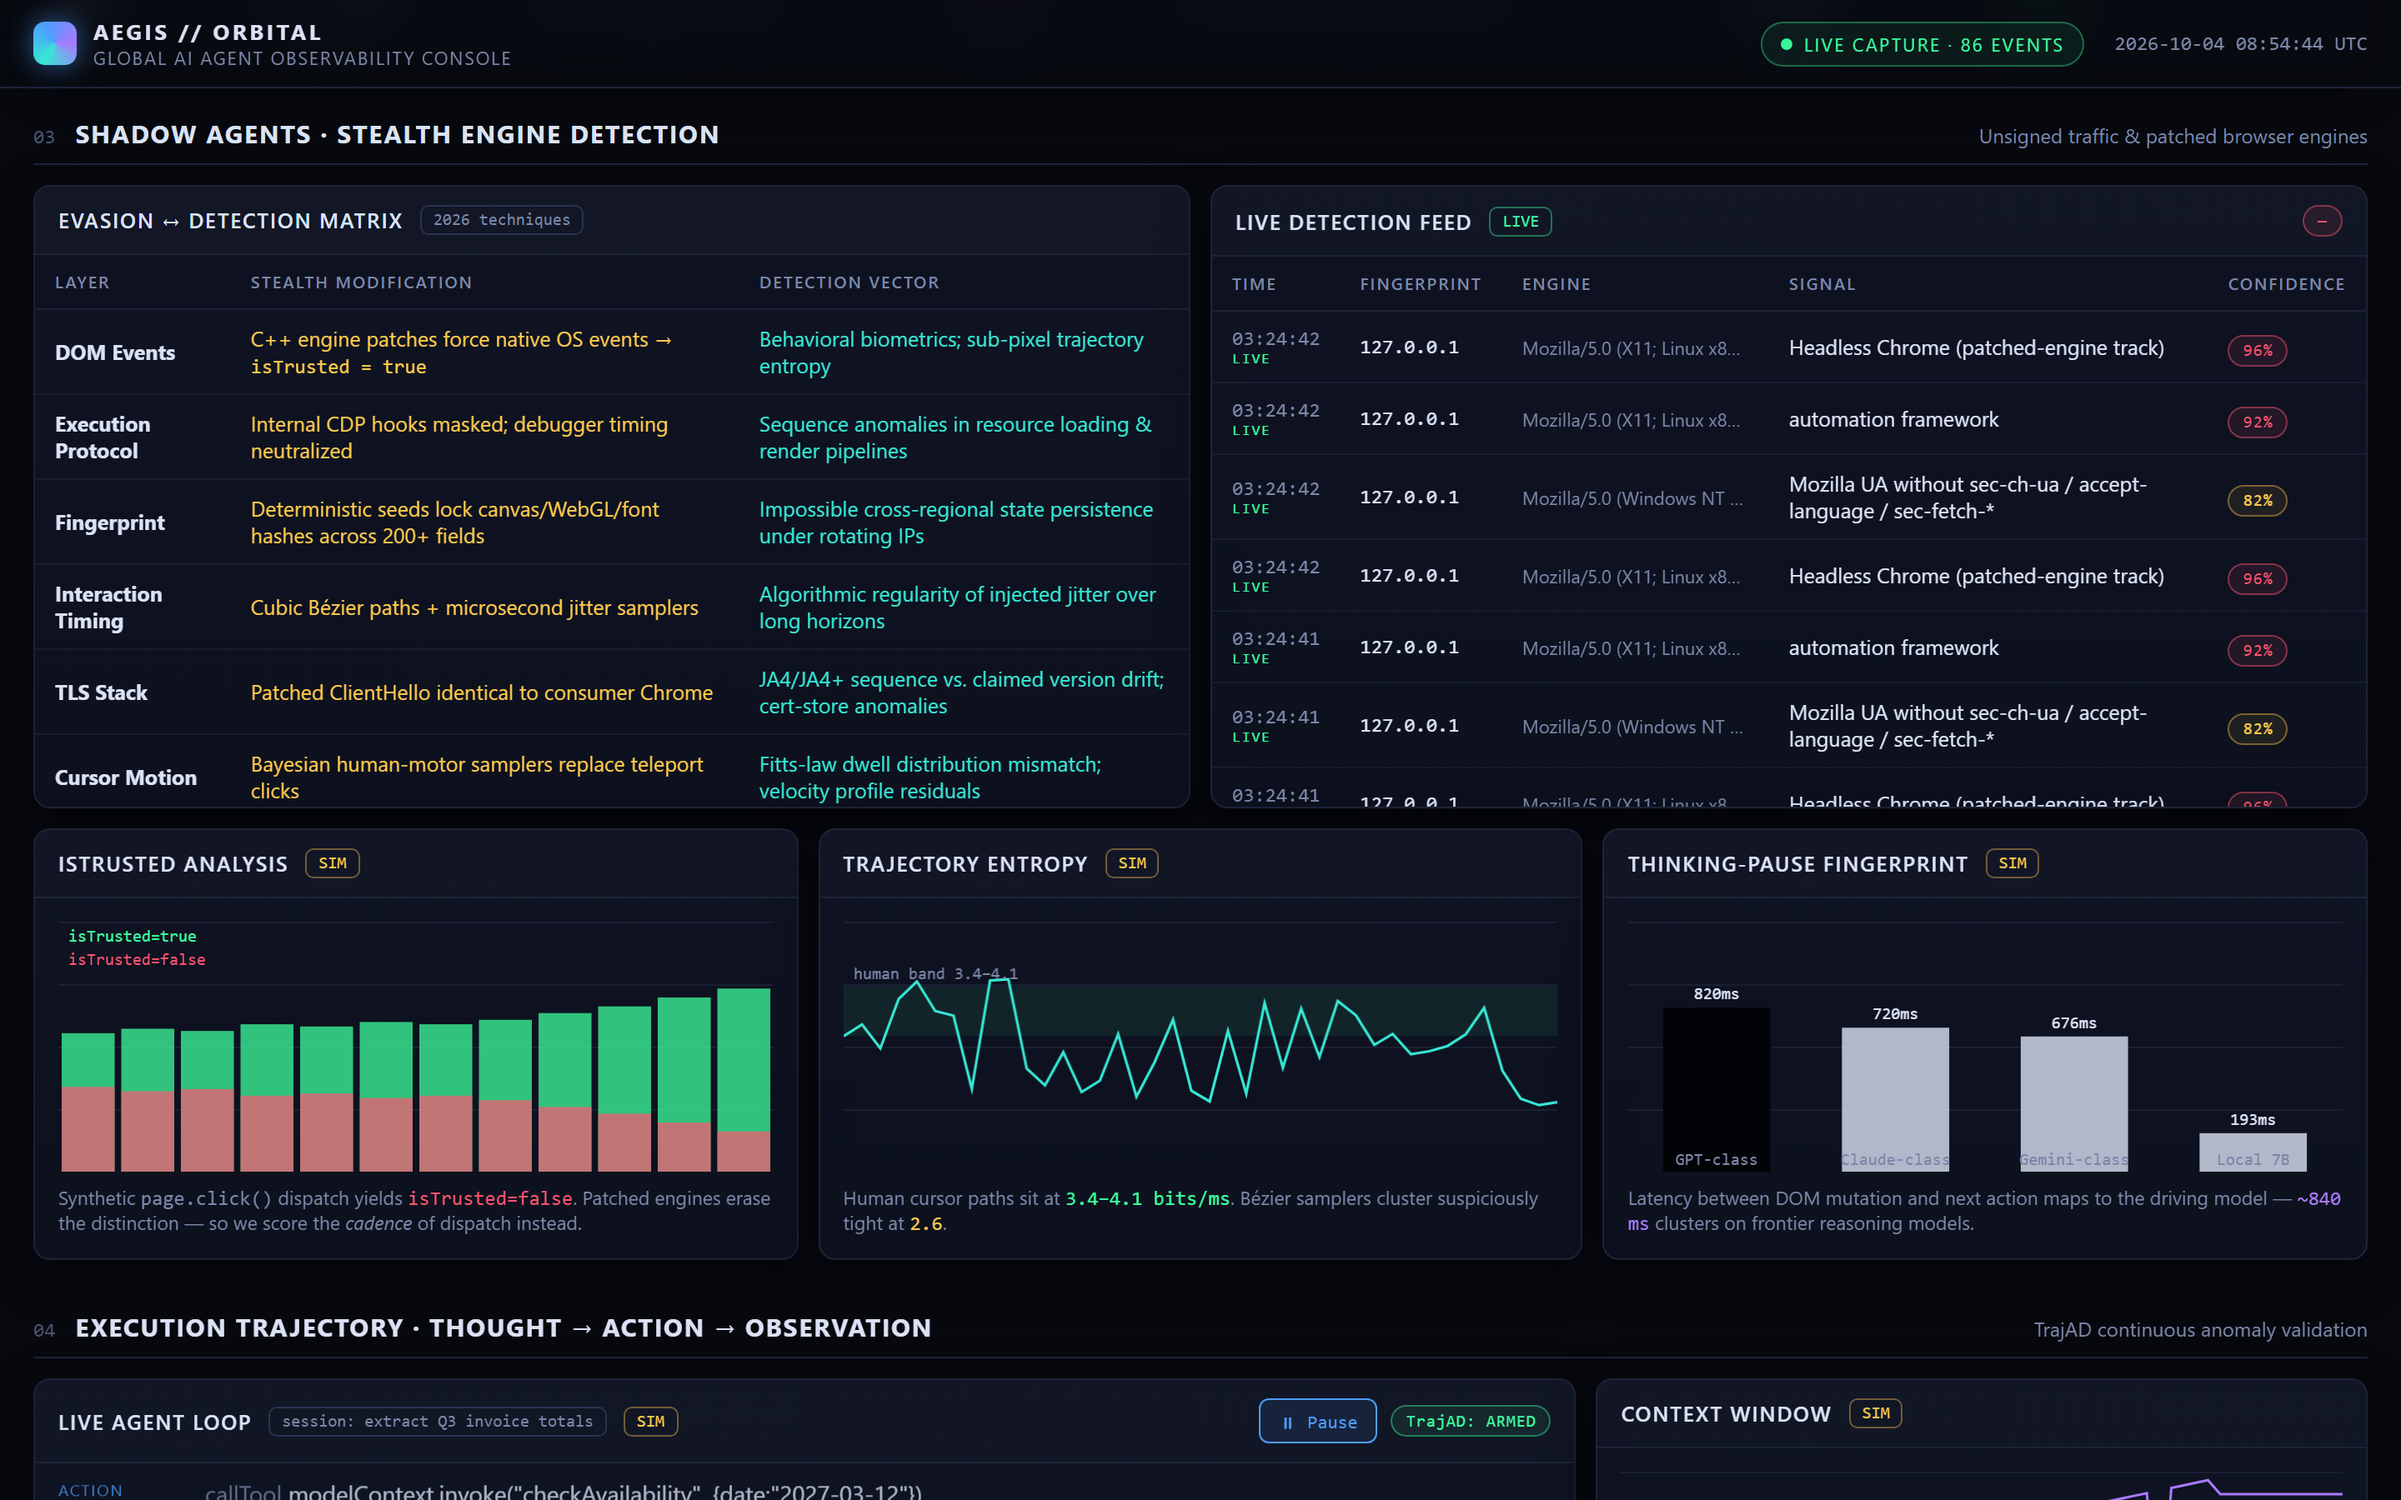
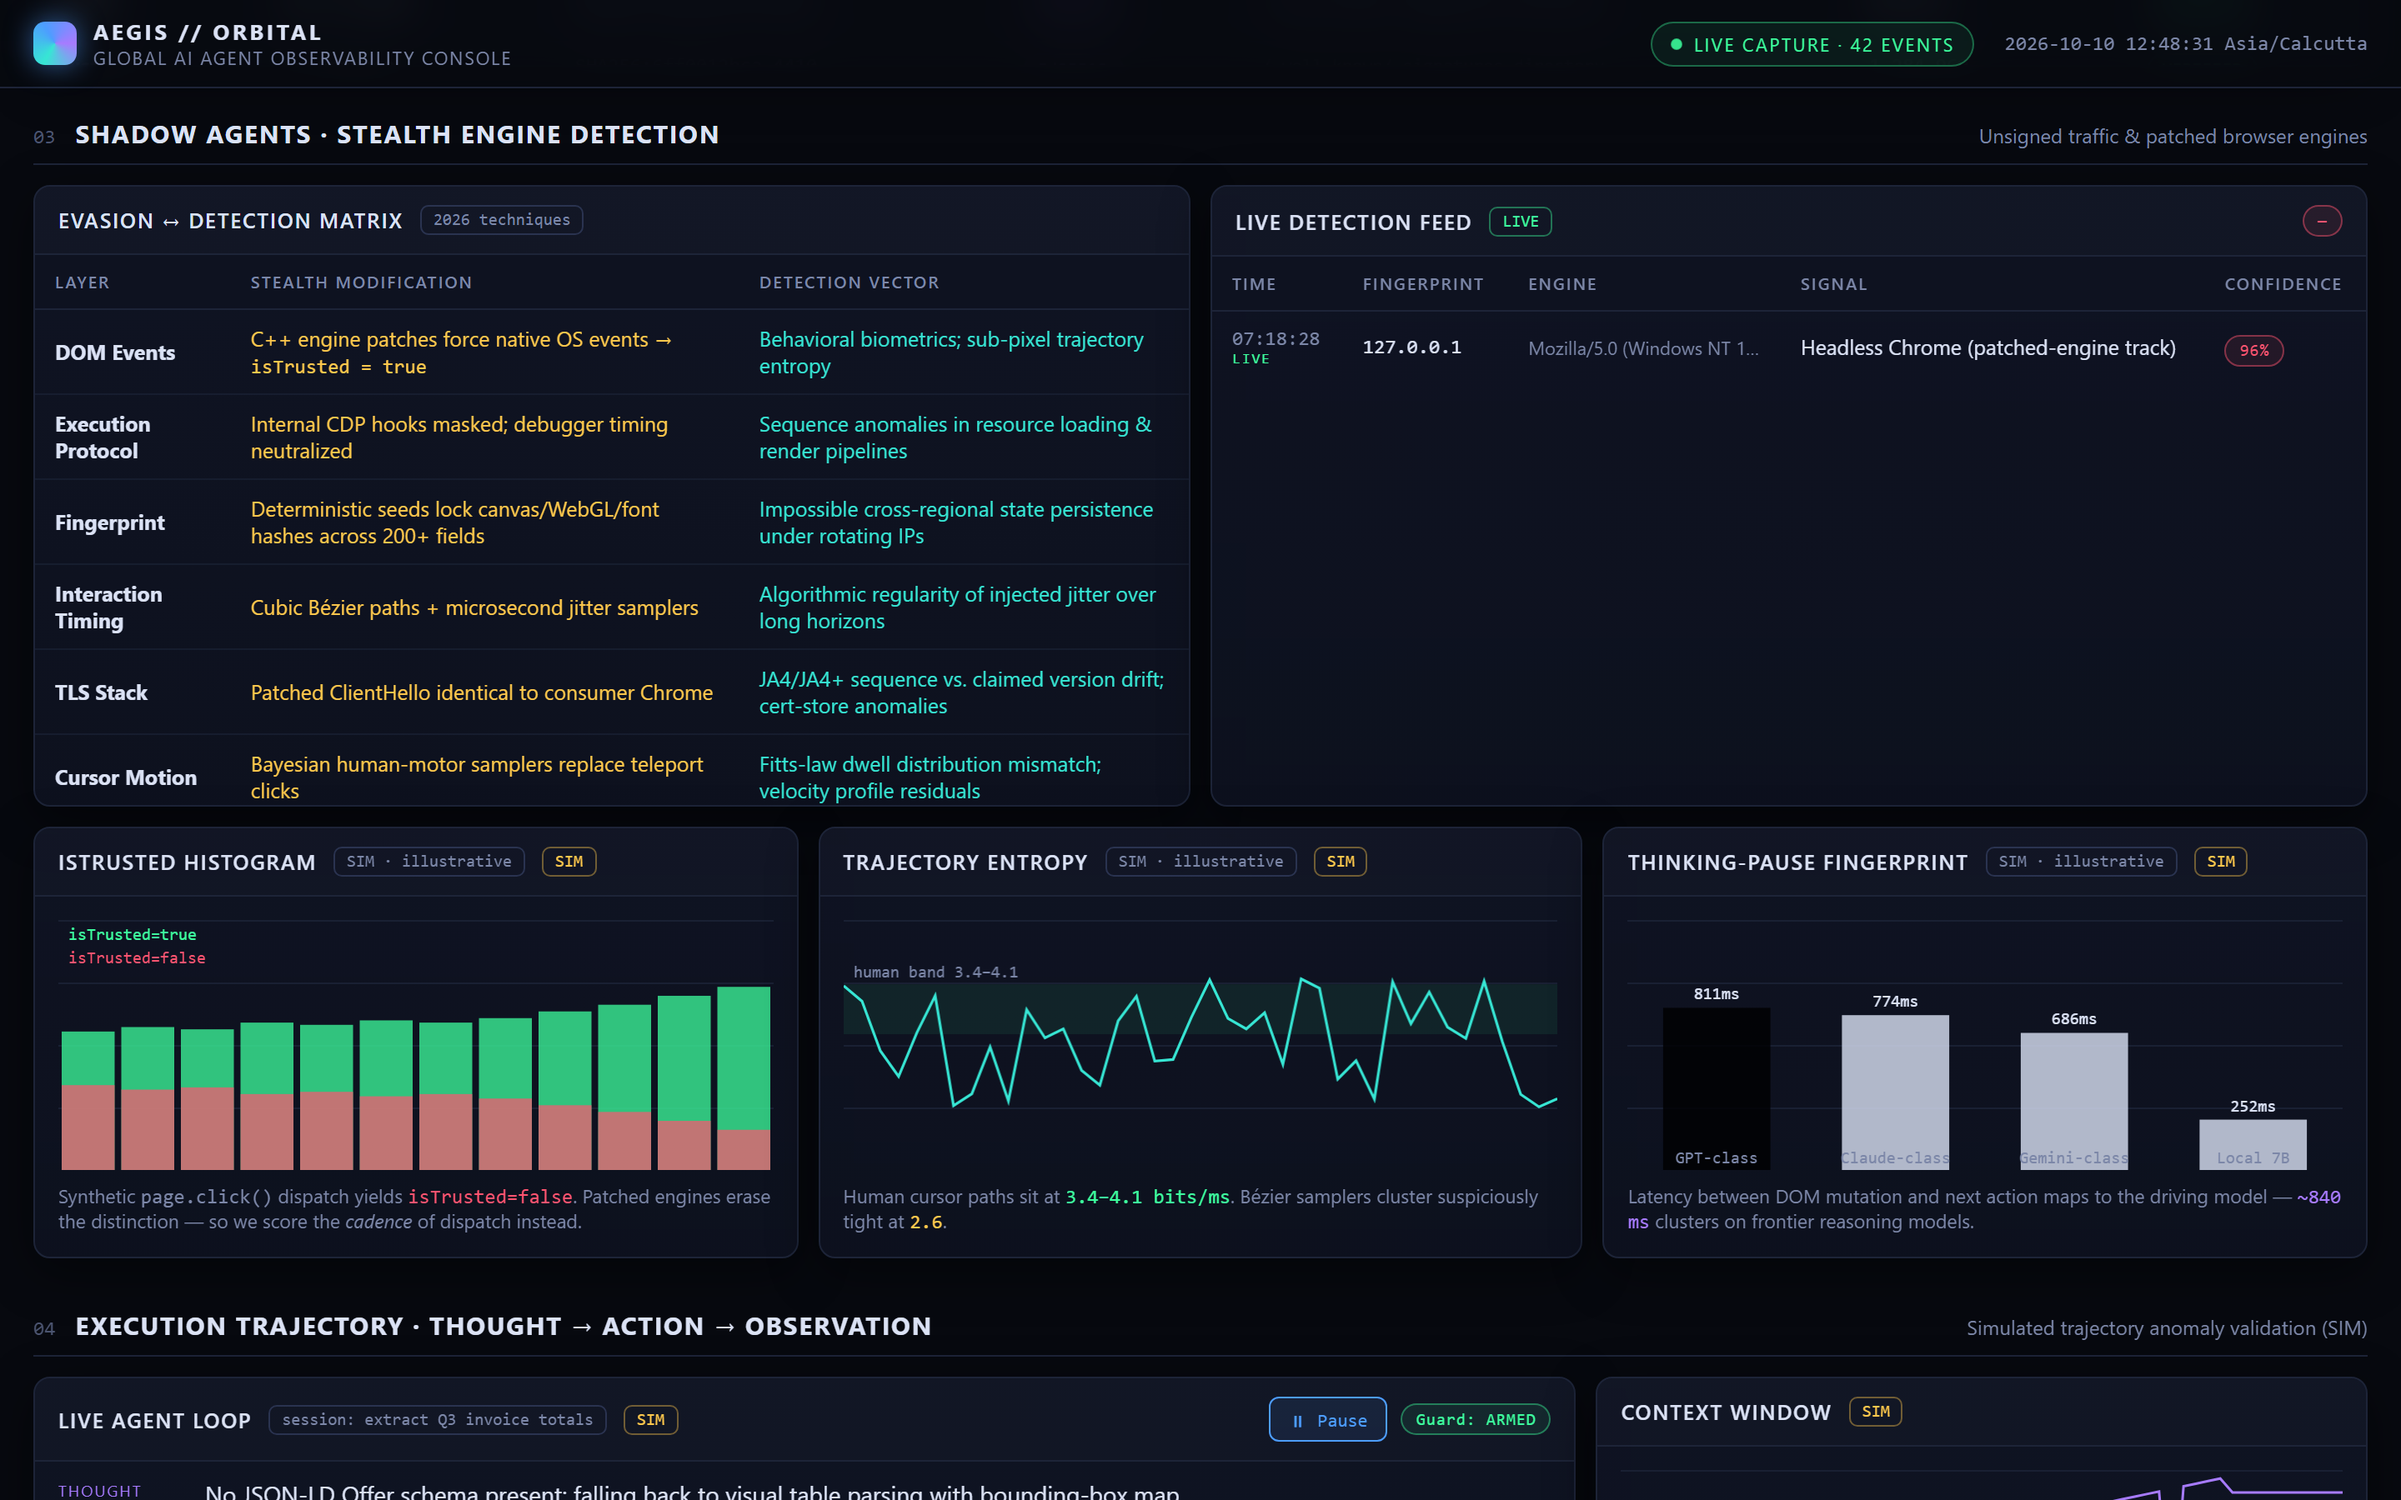
docs: add What's real vs. simulated section, drop static test-count badge, refresh screenshots
The README now opens with an explicit real-vs-simulated paragraph so no
reader mistakes the console's editorial panels for measurements. The
unverifiable static "75 tests passing" badge is gone — the CI badge is
the single source of truth for suite status. Screenshots were regenerated
from the current console (live capture with demo traffic) so no image
shows the removed claims or renamed panels.

🤖 Generated with Codebuff

diff --git a/README.md b/README.md
@@ -15,10 +15,24 @@
   <a href="https://github.com/anushms/aegis/actions/workflows/ci.yml"><img src="https://github.com/anushms/aegis/actions/workflows/ci.yml/badge.svg" alt="CI" /></a>
   <a href="LICENSE"><img src="https://img.shields.io/badge/license-MIT-blue.svg" alt="License: MIT" /></a>
   <img src="https://img.shields.io/badge/node-%3E%3D20-brightgreen.svg" alt="Node.js >= 20" />
-  <img src="https://img.shields.io/badge/tests-75%20passing-success.svg" alt="75 tests passing" />
 </p>
 
 ---
+
+## What's real vs. simulated
+
+Everything in `server.js` is real: request classification, RFC 9421 signature
+verification against your own JWKS keyring (spec-tested against the Appendix
+B.2.6 vector), the ±120 s freshness window, SSRF-guarded remote key
+resolution, `/metrics`, SSE streaming, Basic-auth RBAC and OTLP export — all
+covered by the test suites. The console's editorial panels are **simulated**
+when no capture server is attached (or when you open `index.html` via
+`file://`): the world map, regional-share bars, trajectory stream, IPI feed,
+shadow matrix, market-context figures and the ticker model research findings
+with randomly drifting data so the UI has something to show. They are tagged
+`SIM` in the UI; panels fed by the server flip to `LIVE` and render raw
+counters only. If a number is not tagged `LIVE`, it is a demo, not
+telemetry.
 
 AEGIS is a **zero-dependency** observability stack for the agent-filled web:
 
@@ -161,7 +175,7 @@ attempt a live connection).
 ## Testing
 
 ```bash
-npm test        # 75 tests, five suites
+npm test        # five suites (node:test — zero dependencies)
 ```
 
 | Suite | Covers |
@@ -220,9 +234,7 @@ The console distinguishes what it measures from what it models:
 - `LIVE` — real requests captured by `server.js`: KPIs 1–3, the event stream, the rate
   chart, the shadow feed, and every signature verdict. `VALID` means a public-key
   verification actually succeeded against the local keyring; `UNRESOLVED` means the key
-  is unknown — never presented as trusted.
-- `SIM` — simulation of research findings and market forecasts (GEO citation economics,
-  Pay-Per-Crawl revenue, IPI payload rates, TrjAD anomaly volume, the registry table).
+  is unknown — never presented as trusted.- `SIM` — simulation of research findings and market forecasts (GEO citation economics, Pay-Per-Crawl revenue, IPI payload rates, trajectory-guard anomaly volume, the registry table).
   Each simulated panel is tagged in the UI.
 
 ## Security

diff --git a/CHANGELOG.md b/CHANGELOG.md
@@ -31,9 +31,28 @@ advisory (the project is not published to npm).
   OTel collector. Stdlib only (no gRPC — would add a dependency);
   operator-set endpoint, no redirects, 1024-span drop-oldest queue,
   batch 32 / `OTLP_FLUSH_MS` (default 3 s), failures counted in
-  `aegis_otlp_exports_total` and never disturb capture.
+  `  aegis_otlp_exports_total` and never disturb capture.
+
+### Changed
+
+- **Honesty pass on the dashboard UI** (review feedback): removed the
+  invented infrastructure strip ("42 edge PoPs / Kafka partitions / Flink
+  slots / 310 ms median latency" — none of which exist in this project)
+  and replaced it with the real architecture (one Node process →
+  in-memory counters → SSE); renamed branding that implied unimplemented
+  capabilities — "TrajAD" → trajectory guard, "Rule of Two" → dual-gate
+  checks (tagged SIM), "Canvas hash persistence across 9 regions" →
+  canvas fingerprint reuse — and tagged the isTrusted / entropy /
+  thinking-pause charts as illustrative SIM series. The internal signal
+  key `trajad` became `traj` (`aegis_signals_total{signal="traj"}`). A
+  build test now fails the build if any of these claims reappear.
 
 ### Fixed
+
+- **`server.js` and `build.js` are no longer served** by the static-file
+  whitelist — a running instance previously handed out its own source.
+  An integration test asserts 404 for both while the dashboard assets
+  keep serving.
 
 - **Live-vs-simulated data integrity (audit's top finding).** The clock
   mixed a UTC date with a local time-of-day under a "UTC" label; live
